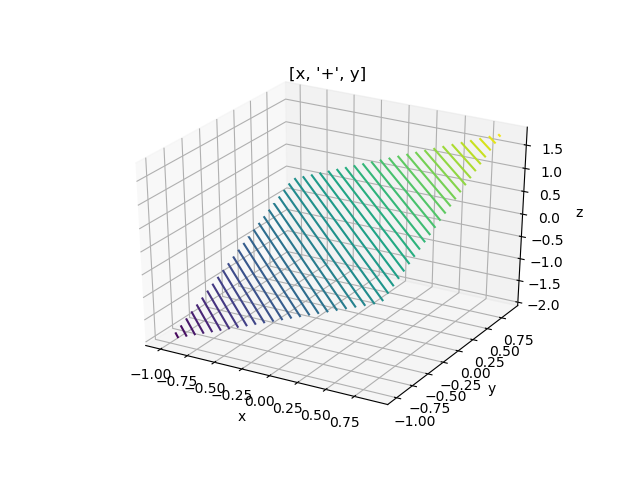
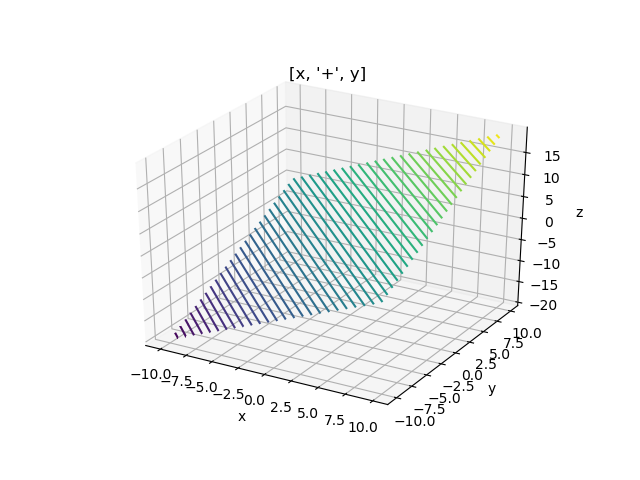
graph changed but only for 2d

Changed region(s): [[0.2188, 0.1875, 0.875, 0.8125], [0.2188, 0.75, 0.5938, 0.9062], [0.625, 0.6875, 0.8438, 0.875]]

diff --git a/static/temp22.html b/static/temp22.html
@@ -1,0 +1,43 @@
+
+
+<style>
+
+</style>
+
+<div id="fig_el38351406154324386088526063629"></div>
+<script>
+function mpld3_load_lib(url, callback){
+  var s = document.createElement('script');
+  s.src = url;
+  s.async = true;
+  s.onreadystatechange = s.onload = callback;
+  s.onerror = function(){console.warn("failed to load library " + url);};
+  document.getElementsByTagName("head")[0].appendChild(s);
+}
+
+if(typeof(mpld3) !== "undefined" && mpld3._mpld3IsLoaded){
+   // already loaded: just create the figure
+   !function(mpld3){
+       
+       mpld3.draw_figure("fig_el38351406154324386088526063629", {"width": 1280.0, "height": 960.0, "axes": [{"bbox": [0.125, 0.10999999999999999, 0.775, 0.77], "xlim": [-1.095, 0.9949999999999994], "ylim": [-2.19, 1.9899999999999989], "xdomain": [-1.095, 0.9949999999999994], "ydomain": [-2.19, 1.9899999999999989], "xscale": "linear", "yscale": "linear", "axes": [{"position": "bottom", "nticks": 10, "tickvalues": null, "tickformat": null, "scale": "linear", "fontsize": 10.0, "grid": {"gridOn": false}, "visible": true}, {"position": "left", "nticks": 10, "tickvalues": null, "tickformat": null, "scale": "linear", "fontsize": 10.0, "grid": {"gridOn": false}, "visible": true}], "axesbg": "#FFFFFF", "axesbgalpha": null, "zoomable": true, "id": "el3835140615432440336", "lines": [{"data": "data01", "xindex": 0, "yindex": 1, "coordinates": "data", "id": "el3835140615434218704", "color": "#1F77B4", "linewidth": 1.5, "dasharray": "none", "alpha": 1, "zorder": 2, "drawstyle": "default"}], "paths": [], "markers": [], "texts": [{"text": "2.0*x", "position": [0.5, 1.0225468975468976], "coordinates": "axes", "h_anchor": "middle", "v_baseline": "auto", "rotation": -0.0, "fontsize": 12.0, "color": "#000000", "alpha": 1, "zorder": 3, "id": "el3835140615432538832"}], "collections": [], "images": [], "sharex": [], "sharey": []}], "data": {"data01": [[-1.0, -2.0], [-0.9, -1.8], [-0.8, -1.6], [-0.7000000000000001, -1.4000000000000001], [-0.6000000000000001, -1.2000000000000002], [-0.5000000000000001, -1.0000000000000002], [-0.40000000000000013, -0.8000000000000003], [-0.30000000000000016, -0.6000000000000003], [-0.20000000000000018, -0.40000000000000036], [-0.1000000000000002, -0.2000000000000004], [-2.220446049250313e-16, -4.440892098500626e-16], [0.09999999999999964, 0.1999999999999993], [0.19999999999999973, 0.39999999999999947], [0.2999999999999998, 0.5999999999999996], [0.3999999999999997, 0.7999999999999994], [0.49999999999999956, 0.9999999999999991], [0.5999999999999996, 1.1999999999999993], [0.6999999999999997, 1.3999999999999995], [0.7999999999999996, 1.5999999999999992], [0.8999999999999995, 1.799999999999999]]}, "id": "el3835140615432438608", "plugins": [{"type": "reset"}, {"type": "zoom", "button": true, "enabled": false}, {"type": "boxzoom", "button": true, "enabled": false}]});
+   }(mpld3);
+}else if(typeof define === "function" && define.amd){
+   // require.js is available: use it to load d3/mpld3
+   require.config({paths: {d3: "https://mpld3.github.io/js/d3.v3.min"}});
+   require(["d3"], function(d3){
+      window.d3 = d3;
+      mpld3_load_lib("https://mpld3.github.io/js/mpld3.v0.3.js", function(){
+         
+         mpld3.draw_figure("fig_el38351406154324386088526063629", {"width": 1280.0, "height": 960.0, "axes": [{"bbox": [0.125, 0.10999999999999999, 0.775, 0.77], "xlim": [-1.095, 0.9949999999999994], "ylim": [-2.19, 1.9899999999999989], "xdomain": [-1.095, 0.9949999999999994], "ydomain": [-2.19, 1.9899999999999989], "xscale": "linear", "yscale": "linear", "axes": [{"position": "bottom", "nticks": 10, "tickvalues": null, "tickformat": null, "scale": "linear", "fontsize": 10.0, "grid": {"gridOn": false}, "visible": true}, {"position": "left", "nticks": 10, "tickvalues": null, "tickformat": null, "scale": "linear", "fontsize": 10.0, "grid": {"gridOn": false}, "visible": true}], "axesbg": "#FFFFFF", "axesbgalpha": null, "zoomable": true, "id": "el3835140615432440336", "lines": [{"data": "data01", "xindex": 0, "yindex": 1, "coordinates": "data", "id": "el3835140615434218704", "color": "#1F77B4", "linewidth": 1.5, "dasharray": "none", "alpha": 1, "zorder": 2, "drawstyle": "default"}], "paths": [], "markers": [], "texts": [{"text": "2.0*x", "position": [0.5, 1.0225468975468976], "coordinates": "axes", "h_anchor": "middle", "v_baseline": "auto", "rotation": -0.0, "fontsize": 12.0, "color": "#000000", "alpha": 1, "zorder": 3, "id": "el3835140615432538832"}], "collections": [], "images": [], "sharex": [], "sharey": []}], "data": {"data01": [[-1.0, -2.0], [-0.9, -1.8], [-0.8, -1.6], [-0.7000000000000001, -1.4000000000000001], [-0.6000000000000001, -1.2000000000000002], [-0.5000000000000001, -1.0000000000000002], [-0.40000000000000013, -0.8000000000000003], [-0.30000000000000016, -0.6000000000000003], [-0.20000000000000018, -0.40000000000000036], [-0.1000000000000002, -0.2000000000000004], [-2.220446049250313e-16, -4.440892098500626e-16], [0.09999999999999964, 0.1999999999999993], [0.19999999999999973, 0.39999999999999947], [0.2999999999999998, 0.5999999999999996], [0.3999999999999997, 0.7999999999999994], [0.49999999999999956, 0.9999999999999991], [0.5999999999999996, 1.1999999999999993], [0.6999999999999997, 1.3999999999999995], [0.7999999999999996, 1.5999999999999992], [0.8999999999999995, 1.799999999999999]]}, "id": "el3835140615432438608", "plugins": [{"type": "reset"}, {"type": "zoom", "button": true, "enabled": false}, {"type": "boxzoom", "button": true, "enabled": false}]});
+      });
+    });
+}else{
+    // require.js not available: dynamically load d3 & mpld3
+    mpld3_load_lib("https://mpld3.github.io/js/d3.v3.min.js", function(){
+         mpld3_load_lib("https://mpld3.github.io/js/mpld3.v0.3.js", function(){
+                 
+                 mpld3.draw_figure("fig_el38351406154324386088526063629", {"width": 1280.0, "height": 960.0, "axes": [{"bbox": [0.125, 0.10999999999999999, 0.775, 0.77], "xlim": [-1.095, 0.9949999999999994], "ylim": [-2.19, 1.9899999999999989], "xdomain": [-1.095, 0.9949999999999994], "ydomain": [-2.19, 1.9899999999999989], "xscale": "linear", "yscale": "linear", "axes": [{"position": "bottom", "nticks": 10, "tickvalues": null, "tickformat": null, "scale": "linear", "fontsize": 10.0, "grid": {"gridOn": false}, "visible": true}, {"position": "left", "nticks": 10, "tickvalues": null, "tickformat": null, "scale": "linear", "fontsize": 10.0, "grid": {"gridOn": false}, "visible": true}], "axesbg": "#FFFFFF", "axesbgalpha": null, "zoomable": true, "id": "el3835140615432440336", "lines": [{"data": "data01", "xindex": 0, "yindex": 1, "coordinates": "data", "id": "el3835140615434218704", "color": "#1F77B4", "linewidth": 1.5, "dasharray": "none", "alpha": 1, "zorder": 2, "drawstyle": "default"}], "paths": [], "markers": [], "texts": [{"text": "2.0*x", "position": [0.5, 1.0225468975468976], "coordinates": "axes", "h_anchor": "middle", "v_baseline": "auto", "rotation": -0.0, "fontsize": 12.0, "color": "#000000", "alpha": 1, "zorder": 3, "id": "el3835140615432538832"}], "collections": [], "images": [], "sharex": [], "sharey": []}], "data": {"data01": [[-1.0, -2.0], [-0.9, -1.8], [-0.8, -1.6], [-0.7000000000000001, -1.4000000000000001], [-0.6000000000000001, -1.2000000000000002], [-0.5000000000000001, -1.0000000000000002], [-0.40000000000000013, -0.8000000000000003], [-0.30000000000000016, -0.6000000000000003], [-0.20000000000000018, -0.40000000000000036], [-0.1000000000000002, -0.2000000000000004], [-2.220446049250313e-16, -4.440892098500626e-16], [0.09999999999999964, 0.1999999999999993], [0.19999999999999973, 0.39999999999999947], [0.2999999999999998, 0.5999999999999996], [0.3999999999999997, 0.7999999999999994], [0.49999999999999956, 0.9999999999999991], [0.5999999999999996, 1.1999999999999993], [0.6999999999999997, 1.3999999999999995], [0.7999999999999996, 1.5999999999999992], [0.8999999999999995, 1.799999999999999]]}, "id": "el3835140615432438608", "plugins": [{"type": "reset"}, {"type": "zoom", "button": true, "enabled": false}, {"type": "boxzoom", "button": true, "enabled": false}]});
+            })
+         });
+}
+</script>

diff --git a/templates/image.html b/templates/image.html
@@ -24,8 +24,10 @@
     {{d}}<br>
     {% endfor %}
     <br>
-    {% for pic in pics %}  
-    <img src='/static/{{pic}}'/><br></br>
+     {% for pic in pics %} 
+     <div>
+     {{ pic|safe }}
+    </div>
     {% endfor %}
 </body>
 </html>

diff --git a/single_test.py b/single_test.py
@@ -1,6 +1,6 @@
 from scanner import Scanner
 from parser import Parser
-import matplotlib.pyplot as plt
+import matplotlib.pyplot as plt, mpld3
 import matplotlib as mpl
 from mpl_toolkits.mplot3d import Axes3D
 import numpy as np
@@ -12,12 +12,14 @@ def draw2D(parser, tree, start,end, figure_num):
         parser.insertValue(value)
         ans = tree.getCalc()
         y.append(ans)
-    plt.figure(figure_num)
+    fig = plt.figure(figure_num)
     title = tree.eval()
     plt.title(title)
     plt.plot(x,y)
     plt.savefig(f'./static/{title}2d.png')
     plt.close()
+    #mpld3.save_html(fig,f'./static/temp22.html')
+    return mpld3.fig_to_html(fig,template_type ='simple')
     return f'{title}2d.png'
 
 def drawMulti(parser, tree, start, end, figure_num):
@@ -46,6 +48,7 @@ def drawMulti(parser, tree, start, end, figure_num):
     # vmin = np.nanmin(y), vmax = np.nanmax(y)
     plt.savefig(f'./static/{title}3d.png')
     plt.close()
+    return mpld3.fig_to_html(fig,template_type ='simple')
     return f'{title}3d.png'
     
 def list2str(list):
@@ -71,17 +74,16 @@ def test2(case):
     derivatives = parser.getDerivative(tree)
     print(derivatives)
 
-def test(case):
+def test(case, start_end):
     pics = []
     partial_derivatives = []
     parser = getTree(case)
     tree = parser.parse()
     canonicalization = tree.eval()
     variable_num = len(parser.variables)
-    start = -1
-    end = 1
+    start, end = start_end
+    print(start, end)
     figure_num = 1
-    
     if variable_num > 1:
         pics.append(drawMulti(parser,tree, start, end, figure_num))  
     elif variable_num == 1:

diff --git a/web.py b/web.py
@@ -9,27 +9,14 @@ from datetime import datetime
 app = Flask(__name__)
 app.config["CACHE_TYPE"] = "null"
 
-def nocache(view):
-  @wraps(view)
-  def no_cache(*args, **kwargs):
-    response = make_response(view(*args, **kwargs))
-    response.headers['Last-Modified'] = datetime.now()
-    response.headers['Cache-Control'] = 'no-store, no-cache, must-revalidate, post-check=0, pre-check=0, max-age=0'
-    response.headers['Pragma'] = 'no-cache'
-    response.headers['Expires'] = '-1'
-    return response      
-  return update_wrapper(no_cache, view)
-###############
-
 @app.route('/input', methods = ['POST', 'GET'])
-@nocache
 def calcExpr():
    if request.method == 'POST':
-      expr = request.form['Expression'] 
-      expr_range = request.form['Range'].split('~')
-      return_code = subprocess.call("rm ./static/2.0*x2d.png", shell=True)
-      print(return_code)
-      pics, canonicalization, partial_derivatives, domain = test(expr)
+      expr = request.form['Expression']
+      expr_range = request.form['Range']
+      if expr_range == '': expr_range = [-1,1]
+      expr_range = list(map(int,expr_range.split(',')))
+      pics, canonicalization, partial_derivatives, domain = test(expr,expr_range)
       return render_template('image.html',
                              pics = pics,
                              canonicalization = canonicalization,
